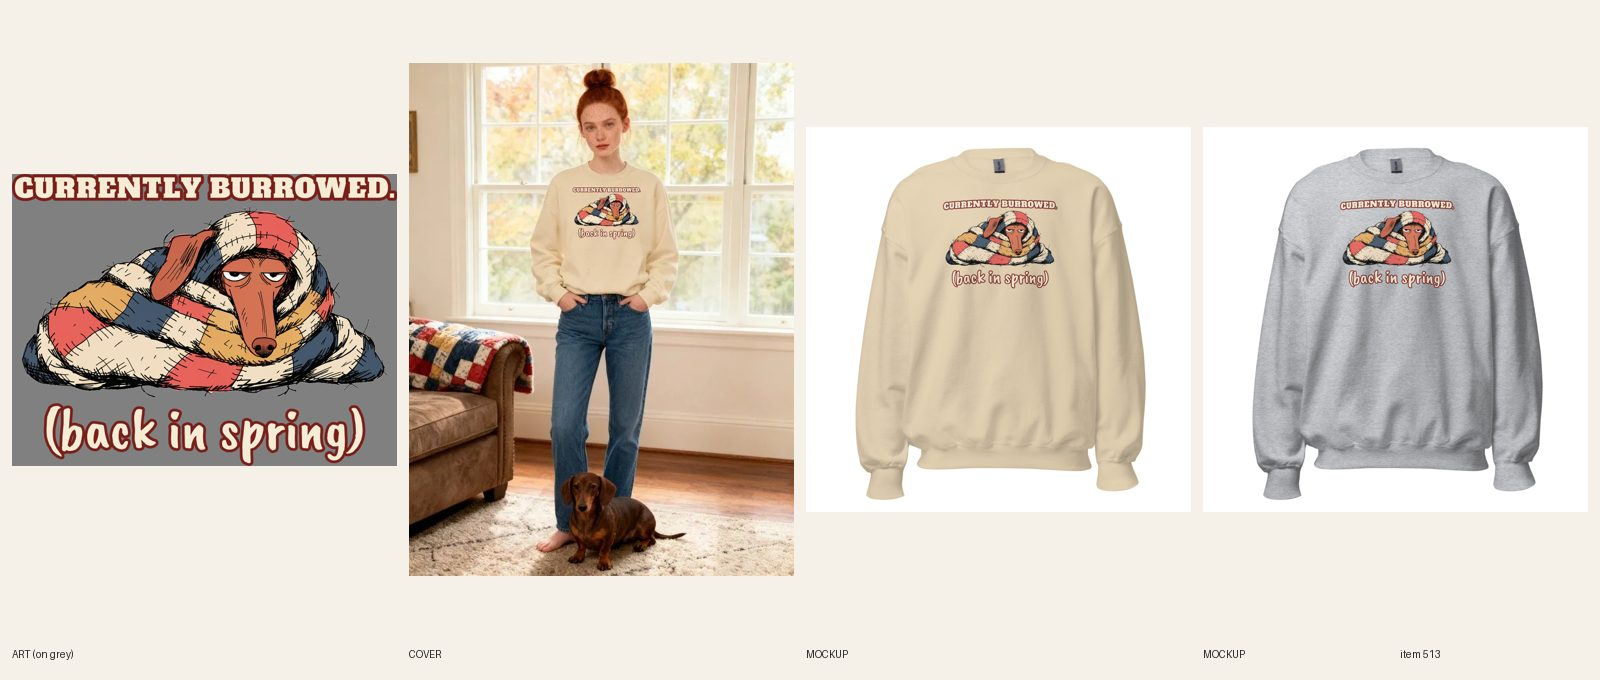
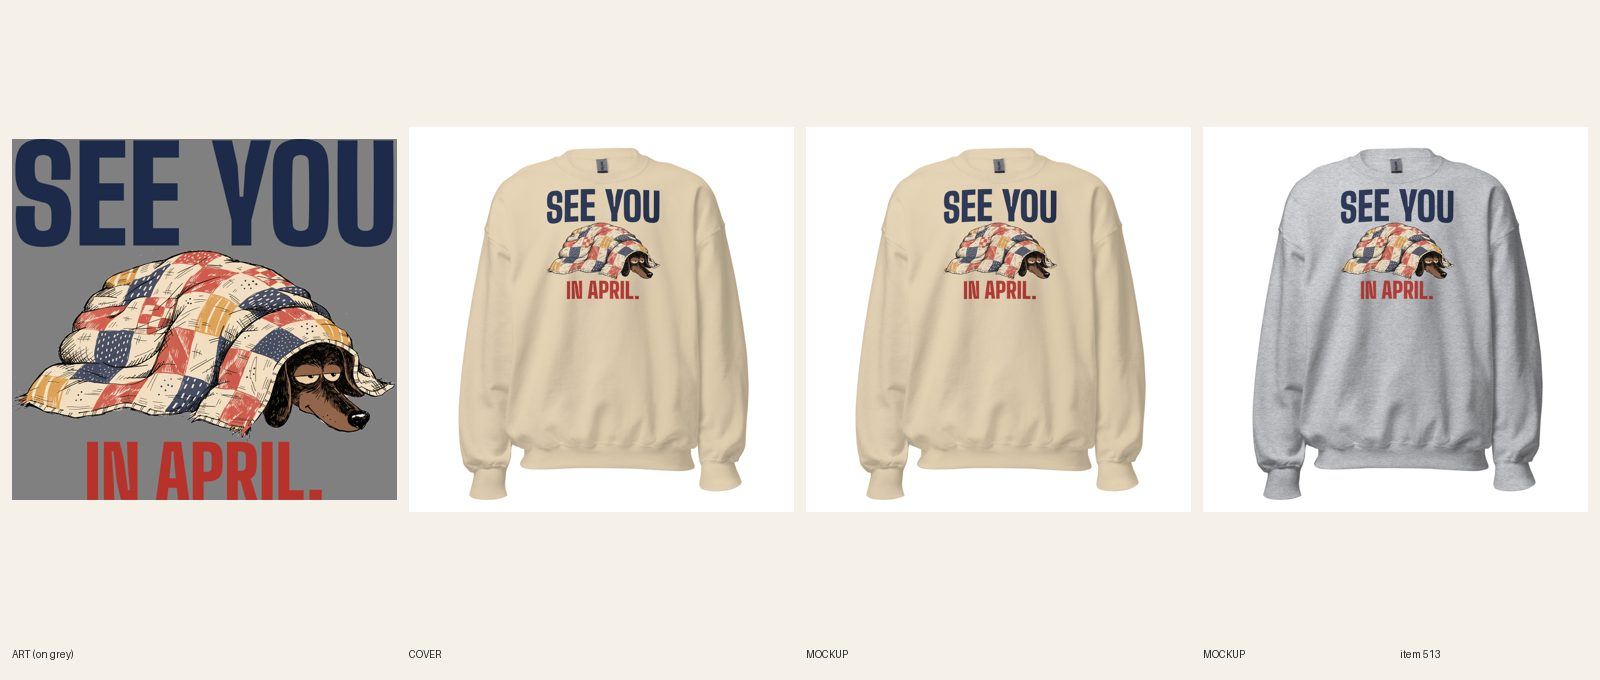
[B] review 513 See You in April dachshund crewneck (line + type redo)

Changed region(s): [[0.0, 0.0926, 0.5, 0.8647], [0.8125, 0.2779, 0.9062, 0.4632], [0.5625, 0.2779, 0.6875, 0.4632]]

diff --git a/docs/pipeline/513-dachshund-crew-currently-burrowed.md b/docs/pipeline/513-dachshund-crew-currently-burrowed.md
@@ -1,4 +1,4 @@
-status: REDO
+status: REVIEW
 lane: B
 type: new
 id: 513
@@ -31,3 +31,4 @@ kd: 40
 - 2026-10-18 00:19 UTC builder [B]: full build. Art: 1 Recraft call, kept (dachshund in patchwork quilt). CURRENTLY BURROWED. AlfaSlabOne + (back in spring) CaveatBrush, cream with dark-red keyline via compose-print; print 11.4 x 8.6 in, FW 1650 TOP 150 (wide, short art). Colors Sand + Sport Grey, NOT Navy: the navy quilt patches and black linework sink into Navy. DRAFT gid 15364303749424, category aa-1-13-14, 12 variants $34.99, compareAtPrice null, tags per brief, keyword dachshund sweatshirt 1,300/KD40 in line one and meta, "doxie shirt" once in FAQ, FAQ 6 x 40-60 words incl. Dec 8. Printful file 1088584847, sync 12/12. Mockups Sand + Sport Grey + back attached and linked; phone-size read ok (cream with red keyline legible on Sport Grey). Cover: registry 844, 2 fal photos (try 1 bare legs and dog cut off; try 2 jeans, dog in frame but the print letters garbled "CURIENTLY"), so per 9b the exact print is composited on the chest. Audit-local PASS, astro build OK. fal $0.16.
 - 2026-10-18 00:19 UTC director: LIVE. Deadpan joke reads in 2 seconds, quilt dachshund beats the floor, both colors read. ACTIVE + Online Store/Headless/Google & YouTube, audit PASS 0 warn. Sheet to docs/reference/best/.
 - 2026-10-18 17:22 UTC director: QUALITY RESET grade C (new line + type), REDO. The product stays ACTIVE (same handle, URL, title keyword). 1. Line (R3.12, quality-reset 'Lines'): "CURRENTLY BURROWED. / (back in spring)": Noun plus mild aside; cute, not a laugh. Write 5 candidates, keep the one a stranger laughs at in 3 seconds without backstory; kill lines that only describe the picture; if none of the 5 is funny, PARK it. 2. Quality reset type bar (docs/backlog/quality-reset.md, 'The new bar'): headline at least 90% of the art width, heavy, colors pulled from the art; second line at least 45% of the headline's height, never a thin script on a dark or mid garment; use the lettering as a shape (arch, stacked lockup, words breaking into the art), not a plain bar above and a script line below; no font used on more than 1 in 6 of the last 30 designs. 3. Keep the art if it carries the new line, else one new illustration (R4/R5). New print means a new cover per R6.10, copy line one rewritten for the new joke (R8.3), and a fresh review sheet (R7.7). While quality-reset.md says PAUSED, only lane A builds, and only the samples step 2 names.
+- 2026-10-20 06:15 UTC builder [B]: REDO 513 (C grade, line + type) done in place (stays ACTIVE, handle unchanged; title now "Women's Dachshund – See You in April Crewneck Sweatshirt"). 5 candidates: "SEE YOU / IN APRIL."; "Do Not Disturb. Long Dog At Rest"; "Emotionally Burrowed"; "Hibernating. Back In Spring"; "Under Cover Since October". Kept SEE YOU / IN APRIL. (hibernation deadpan, the buried dog carries it, 3 seconds). Source art not in repo: one new Recraft call ($0.04) from the brief's prompt, no words, dachshund under the patchwork quilt. Big Shoulders Display 900 at 98% of art width (headline height 186% of the second line, which is 62% of art width); both colors are light blanks, so ONE dark-ink file on Sand and Sport Grey (headline navy, second line red; light file logged: Sand 1090158474 / Sport Grey 1090158487, same print). FW 1650 TOP 0 (crewneck, 10.3 in tall). 12/12 synced on the right file per color, back logo kept. Fronts + back replaced in place, alts, title, SEO, copy, FAQs updated. Phone-size read OK on both. Cover: handle added to retired-covers.json. audit --handle PASS 0 warn. fal $0.04. Sheet docs/review/513.jpg.

diff --git a/docs/intake-log.md b/docs/intake-log.md
@@ -1,4 +1,5 @@
 RUNNING director since 2026-10-20 04:12 UTC
+2026-10-20 04:22 UTC — [B] Builder run: redid #513 Women's Dachshund crewneck (line + type: SEE YOU / IN APRIL., new quilt-dachshund art, Big Shoulders, Sand + Sport Grey dark-ink file, 12/12 synced). REVIEW. fal $0.04.
 2026-10-20 03:47 UTC — [H] Helper run: audit 607 products, 0 errors, 30 warnings (no scripted ERRORs to fix). Category check: 0 products without a Shopify category. Site check: 3 newest LIVE pages (#618, #578, #548) all 200. Stuck-work check: nothing BUILDING, all locks under 2h. Telegram: no new messages. Announcement bar already on holiday line. Daily summary not due (before 12:00 UTC). Lock released.
 2026-10-20 04:15 UTC — [E] Builder run: redid #459 Men's Mountain Bike heavyweight hoodie (line + type: 40 MINUTES UP. 40 SECONDS DOWN., new downhill rider art, Storm Blue + Sandstone files, 14/14 synced, copy updated, plain product shot). REVIEW. fal $0.04.
 2026-10-20 04:08 UTC — [E] Builder run: redid #443 Unisex Mothman hoodie (line + type: SIGHTINGS BY APPOINTMENT ONLY., new sleeping Mothman art, Navy + Sand files, 12/12 synced, copy updated, plain product shot). REVIEW. fal $0.04.
